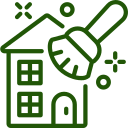
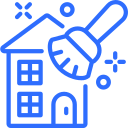
fix: color theme green to blue

diff --git a/components/cards/TeamCard.js b/components/cards/TeamCard.js
@@ -4,7 +4,7 @@ import Image from "next/image";
 const TeamCard = ({teamThumb, teamTitle, teamDesc}) => {
   return (
     <div className="group">
-      <div className="relative z-10 overflow-hidden before:absolute before:bottom-0 before:left-0 before:w-full before:h-5/6 before:bg-gradient-to-t before:from-green-500 before:to-transparent before:transition-all before:duration-500 before:opacity-75 group-hover:before:h-0 after:absolute after:bottom-0 after:left-0 after:w-full after:h-0 after:transition-all after:duration-500 after:bg-gradient-to-t after:from-yellow-300 after:to-transparent after:opacity-75 group-hover:after:h-5/6">
+      <div className="relative z-10 overflow-hidden before:absolute before:bottom-0 before:left-0 before:w-full before:h-5/6 before:bg-gradient-to-t before:from-blue-500 before:to-transparent before:transition-all before:duration-500 before:opacity-75 group-hover:before:h-0 after:absolute after:bottom-0 after:left-0 after:w-full after:h-0 after:transition-all after:duration-500 after:bg-gradient-to-t after:from-yellow-300 after:to-transparent after:opacity-75 group-hover:after:h-5/6">
         <Image 
           src={teamThumb} 
           alt={teamTitle}

diff --git a/components/common/Footer.jsx b/components/common/Footer.jsx
@@ -7,6 +7,7 @@ import {
   FaPinterestP,
   FaXTwitter,
 } from "react-icons/fa6";
+import Logo from "@/public/images/logo-cleaning.png";
 import { IoLocationOutline } from "react-icons/io5";
 import { FiPhoneCall } from "react-icons/fi";
 import { HiOutlineMail } from "react-icons/hi";
@@ -74,7 +75,7 @@ const Footer = () => {
         <div className="grid grid-cols-1 gap-5 md:grid-cols-2 xl:grid-cols-3 2xl:grid-cols-12">
           <div className="2xl:col-span-4">
             <Image 
-              src="/images/footer-logo.png"
+              src={Logo}
               alt="Footer Logo"
               width={180}
               height={60}
@@ -201,7 +202,7 @@ const Footer = () => {
         <div className="text-left sm:text-center py-6 border-t border-[#ffc702] mt-24">
           <p className="font-Poppins text-white">
             © Copyrights 2024 The Clening Standard All rights reserved by
-            <span className="text-PrimaryColor-0">The Cleaning Standard</span>
+            <span className="text-PrimaryColor-0"> The Cleaning Standard</span>
           </p>
         </div>
       </div>

diff --git a/components/common/Header.jsx b/components/common/Header.jsx
@@ -145,7 +145,7 @@ const Header = () => {
       <Link
         className={`${
           pathname === "/contact" ? "active" : ""
-        } text-HeadingColor-0 text-left lg:border-b-0 px-3 lg:px-1 2xl:px-3 py-2 w-full block transition-all duration-300`}
+        } text-HeadingColor-0 hover:text-PrimaryColor-0 text-left lg:border-b-0 px-3 lg:px-1 2xl:px-3 py-2 w-full block transition-all duration-300 whitespace-nowrap`}
         href="/contact"
       >
         Contact
@@ -201,12 +201,7 @@ const Header = () => {
                 </Link>
               </li>
             </ul>
-            <Link
-              href="/account/sign-in"
-              className="text-sm font-medium text-white hover:text-PrimaryColor-0 transition-all duration-500"
-            >
-              Sign In
-            </Link>
+           
           </div>
           <div className="lg:flex items-center gap-2 hidden">
             <h6 className="flex items-center gap-2 text-sm text-white font-Poppins font-light">

diff --git a/components/Banner.js b/components/Banner.js
@@ -5,7 +5,7 @@ import { FaArrowRightLong } from "react-icons/fa6";
 const Banner = () => {
   return (
     <div>
-    <section className="bg-[url('/images/banner-bubbles.jpg')] bg-cover bg-center bg-no-repeat h-[1000px] sm:h-[88rem] lg:h-[800px] flex items-center overflow-hidden relative before:absolute before:inset-0 before:bg-gradient-to-r before:from-black/70 before:to-black/50 before:z-0">
+    <section className="bg-[url('/images/blue-banner-bubbles.jpg')] bg-cover bg-center bg-no-repeat h-[1000px] sm:h-[88rem] lg:h-[800px] flex items-center overflow-hidden relative before:absolute before:inset-0 before:bg-gradient-to-r before:from-black/70 before:to-black/50 before:z-0">
       <div className="Container relative z-10">
         <div className="grid grid-cols-1 lg:grid-cols-2 items-center justify-between">
           <div className="relative">

diff --git a/tailwind.config.js b/tailwind.config.js
@@ -15,9 +15,9 @@ module.exports = {
       },
       colors: {
         PrimaryColor: ["#ffc702"],
-        SecondaryColor: ["#008000"],
-        HoverColor: ["rgb(46 109 254)"],
-        HeadingColor: ["#215607"],
+        SecondaryColor: ["#2e6dfe"],
+        HoverColor: ["#2e6dfe"],
+        HeadingColor: ["#00197e"],
         TextColor: ["#3a4268"],
         BodyBg: ["#f3f4f8"],
         BorderColor: ["#0202021a"],
